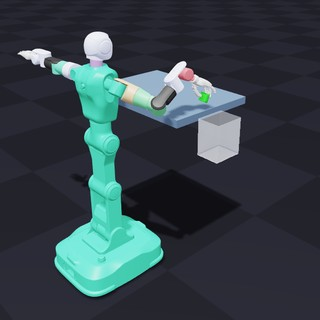
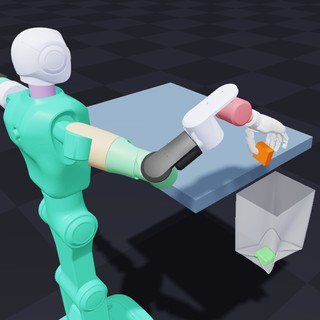
Soften the VBD DexForce cloth bag
Reduce membrane and bending stiffness and damping so the walls fold
and the bottom sags under the cubes. Expose separate stiffness controls.

diff --git a/newton/examples/vbd/example_vbd_dexforce_boxbag.py b/newton/examples/vbd/example_vbd_dexforce_boxbag.py
@@ -120,6 +120,8 @@ class Example:
         self.bag_opacity = args.bag_opacity
         if not 0.0 <= self.bag_opacity <= 1.0:
             raise ValueError("--bag-opacity must be between 0 and 1")
+        if args.bag_stretch_stiffness <= 0 or args.bag_bend_stiffness < 0:
+            raise ValueError("Bag stretch stiffness must be positive and bending stiffness nonnegative")
         asset_root = Path(newton.examples.get_asset_directory()) / "dexforce_boxbag"
         with np.load(asset_root / "robot_targets.npz") as recording:
             trajectory = recording["joint_q"]
@@ -184,11 +186,13 @@ class Example:
             vertices=vertices.tolist(),
             indices=indices,
             density=0.08,
-            tri_ke=5.0e4,
-            tri_ka=5.0e4,
-            tri_kd=50.0,
-            edge_ke=25.0,
-            edge_kd=0.25,
+            # Low bending resistance lets the walls fold instead of retaining
+            # the initial box shape. Moderate membrane stiffness carries the cubes.
+            tri_ke=args.bag_stretch_stiffness,
+            tri_ka=args.bag_stretch_stiffness,
+            tri_kd=1.0,
+            edge_ke=args.bag_bend_stiffness,
+            edge_kd=0.001,
             particle_radius=0.003,
             label="box_bag",
         )
@@ -403,6 +407,8 @@ class Example:
         parser.add_argument(
             "--bag-opacity", type=float, default=0.55, help="Bag display opacity; 1 shows an opaque bag"
         )
+        parser.add_argument("--bag-stretch-stiffness", type=float, default=1000.0, help="Bag membrane stiffness")
+        parser.add_argument("--bag-bend-stiffness", type=float, default=0.02, help="Bag bending stiffness")
         parser.add_argument(
             "--rigid-articulation-solve", choices=("local", "block_sparse_joints"), default="block_sparse_joints"
         )

diff --git a/newton/examples/assets/dexforce_boxbag/README.md b/newton/examples/assets/dexforce_boxbag/README.md
@@ -29,6 +29,13 @@ The bag is partly transparent so both deposited cubes remain visible. Use
 substeps with 24 VBD iterations each; 1900 frames represent 31.7 seconds of
 simulation, and take longer than real time on the tested GPU.
 
+The bag uses membrane stiffness 1000 and bending stiffness 0.02, with
+reduced damping, so its walls can fold and its bottom sags under the cubes.
+The original final00 values (50000 and 25) largely preserved the initial
+box shape. Adjust `--bag-stretch-stiffness` and `--bag-bend-stiffness` to
+control stretching and resistance to folding independently; the top rim
+remains fixed.
+
 This port uses `SolverVBD` for the dynamic robot, rigid cube, tetrahedral soft
 cube, and cloth bag. The recording drives position and velocity targets.
 URDF mimic relations are disabled because the recorded finger PIP targets

diff --git a/changelog/+vbd-boxbag-softness-9f2a81de.changed.md b/changelog/+vbd-boxbag-softness-9f2a81de.changed.md
@@ -1,0 +1,1 @@
+Soften the DexForce VBD example's bag by reducing membrane and bending stiffness and damping, and expose separate command-line controls for stretching and folding resistance.
